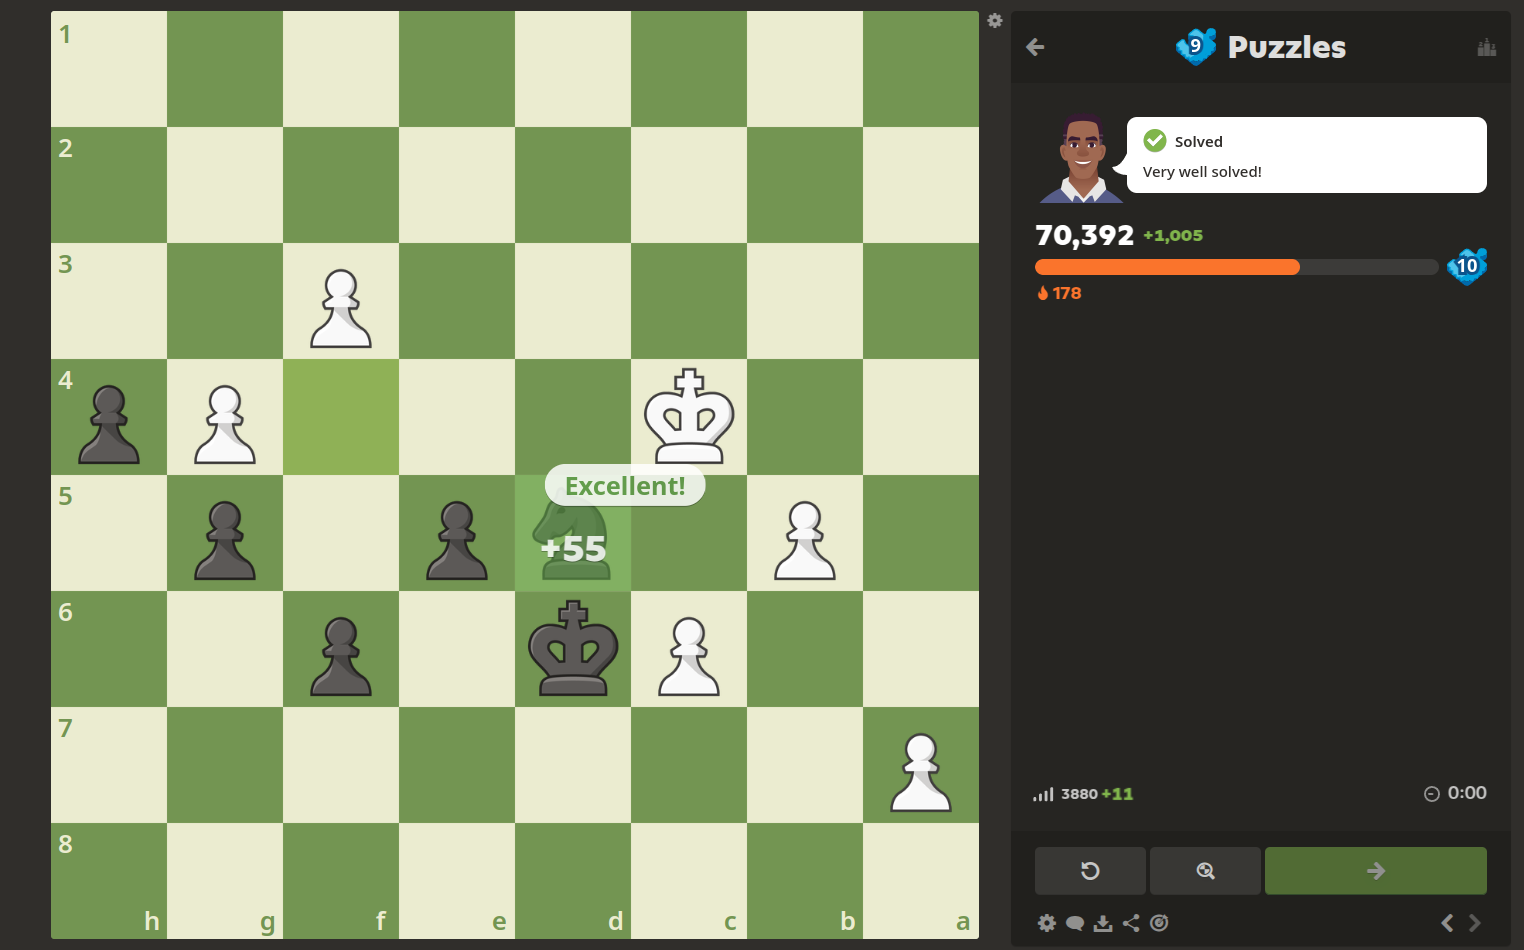
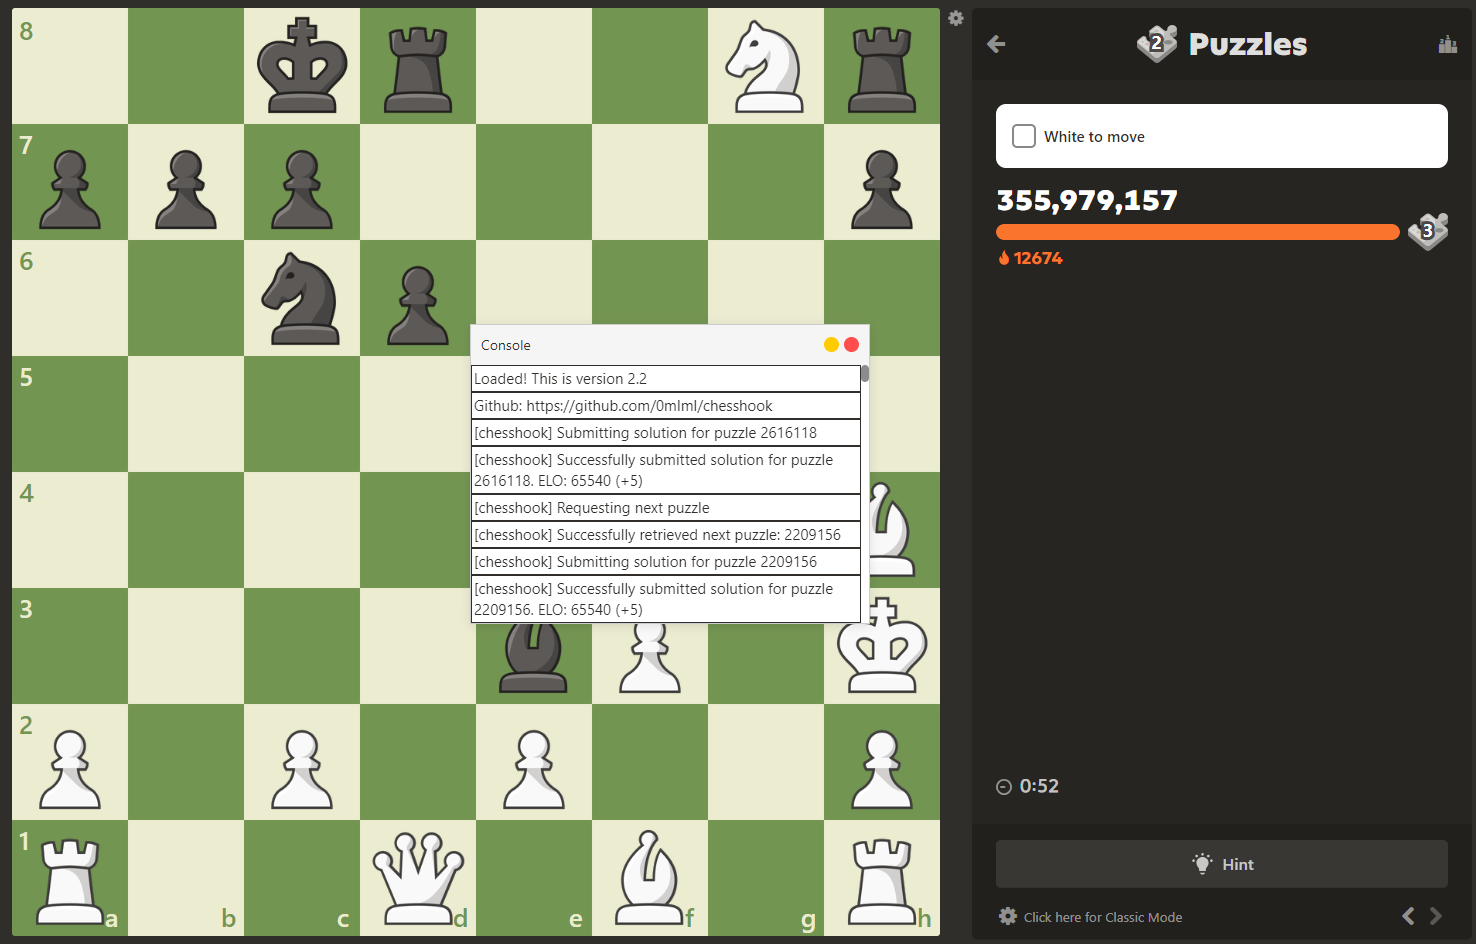
README

diff --git a/README.md b/README.md
@@ -14,6 +14,10 @@ Chess bot userscript for chess.com
    - Solves puzzles with 100% accuracy in <1 second each
 
    ![Puzzle rating](.github/puzzles-new.png)
+
+   - Capable of putting in thousands of hours per day
+   
+   ![Puzzle hours](.github/hours.png)
  - Render Threats
    - Utilizes some built in chess.com functions to render undefended pieces, underdefended pieces, pinned pieces, and mates
 
